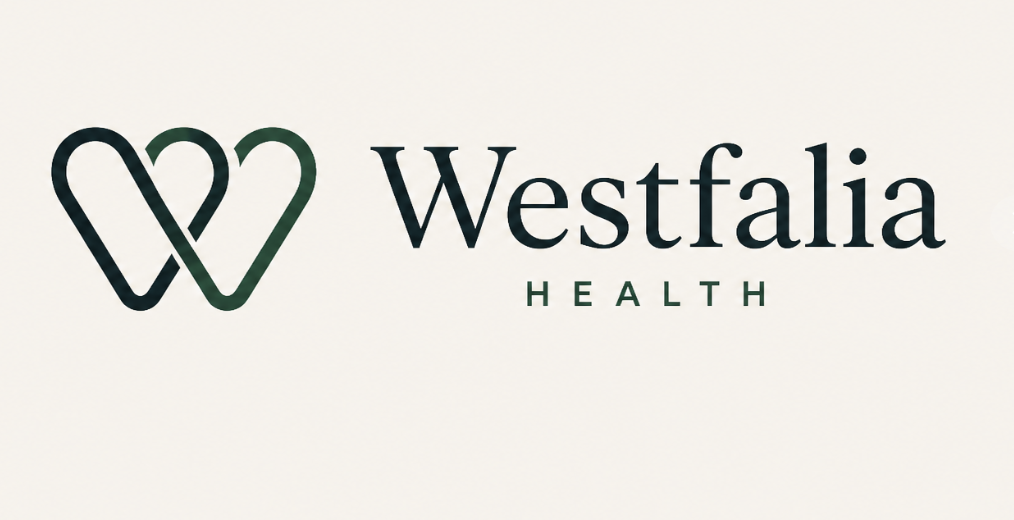
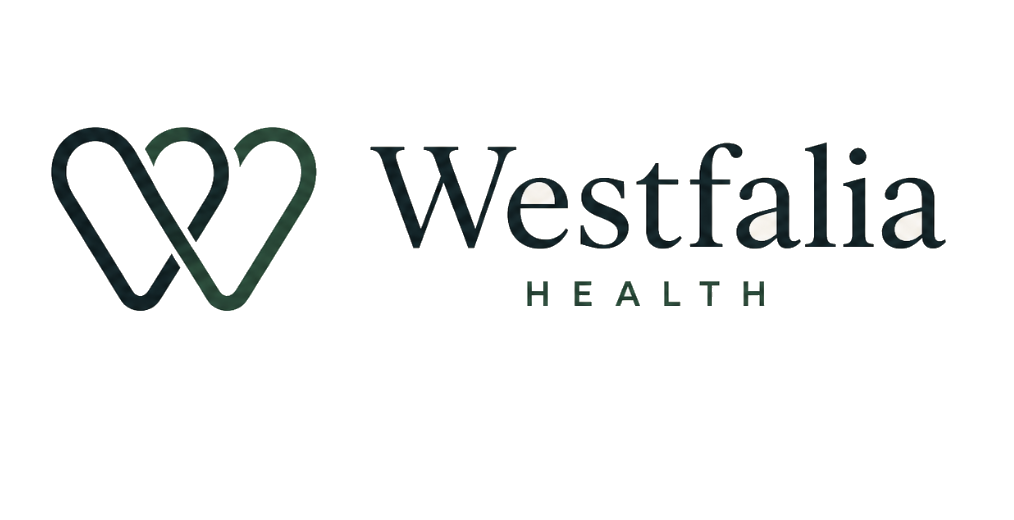
Fix header lockup size and opaque bone box
Bump .lockup to 76px desktop / 56px mobile. Replace opaque PNG bone
fill with transparent background (same approved mark/wordmark) so it
sits cleanly on page --bone.

diff --git a/styles.css b/styles.css
@@ -104,12 +104,13 @@ a {
 }
 
 .lockup {
-  height: 52px;
+  height: 76px;
   width: auto;
-  max-width: min(240px, calc(100% - 148px));
+  max-width: min(320px, calc(100% - 148px));
   flex: 0 1 auto;
   position: relative;
   z-index: 0;
+  background: transparent;
 }
 
 .header-inner .btn {
@@ -319,8 +320,9 @@ a {
   }
 
   .lockup {
-    height: 40px;
-    max-width: min(180px, calc(100% - 120px));
+    height: 56px;
+    max-width: min(240px, calc(100% - 120px));
+    background: transparent;
   }
 
   .header-inner .btn {

diff --git a/index.html b/index.html
@@ -28,8 +28,8 @@
           class="lockup"
           src="assets/westfalia-lockup.png"
           alt="Westfalia Health"
-          width="1353"
-          height="342"
+          width="1014"
+          height="520"
         />
         <a class="btn" href="mailto:info@westfaliahealth.com?subject=Westfalia">Talk to us</a>
       </div>
